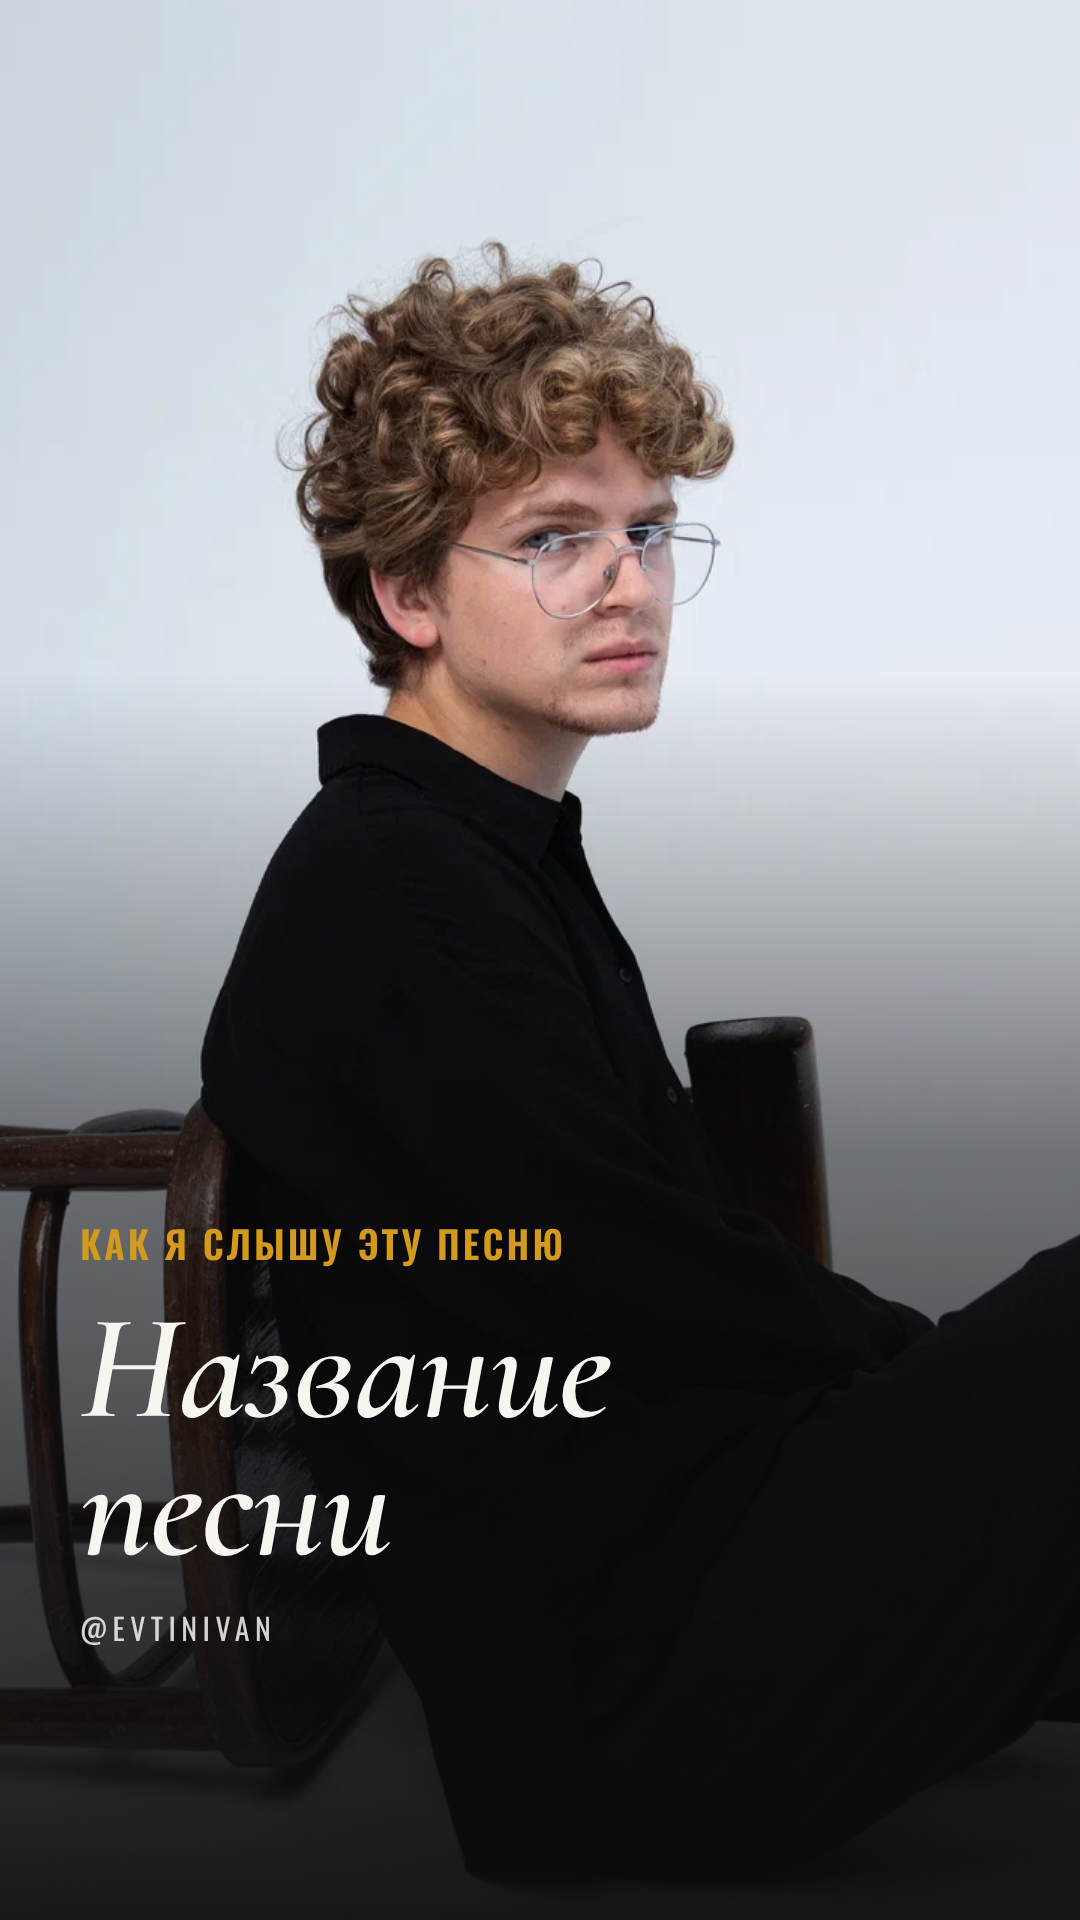
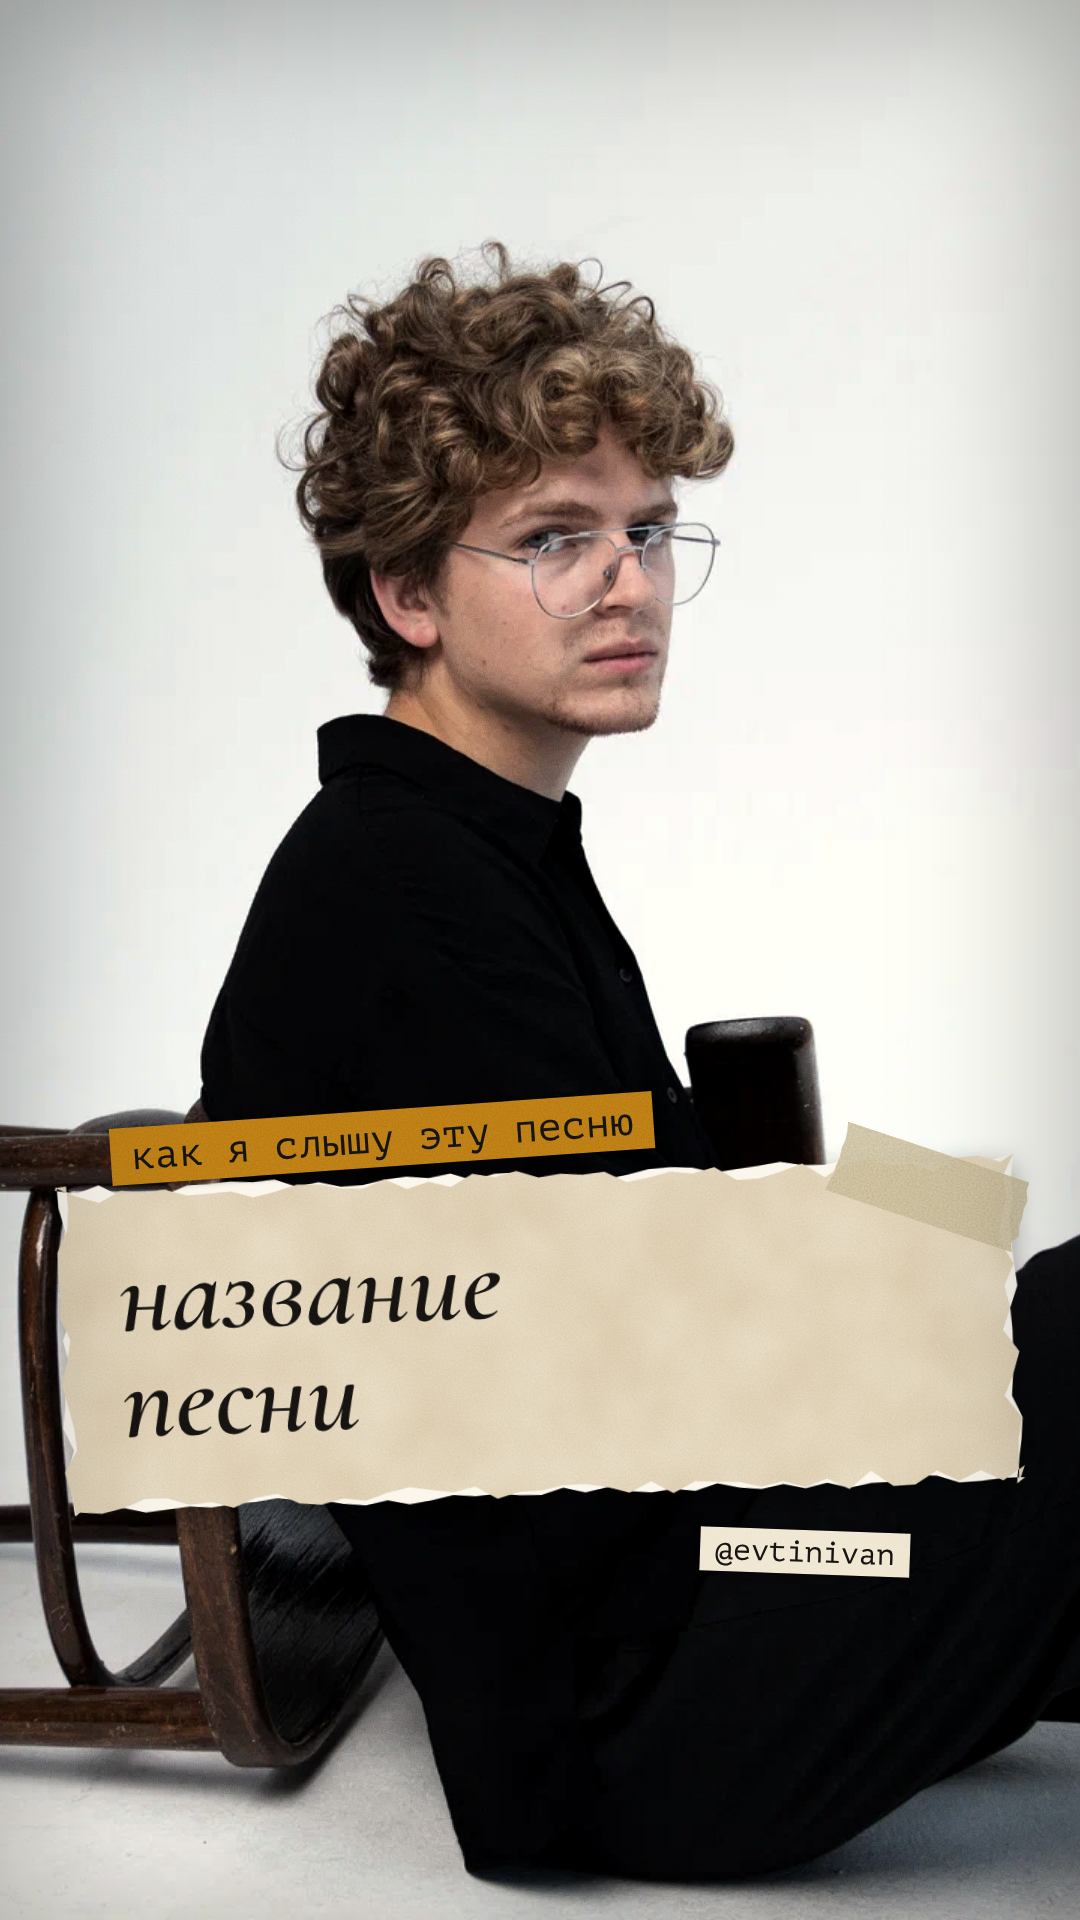
docs: redesign Instagram kit as a hand-made musician's notebook collage
Torn paper with fibre rims, sheet music, tape, piano-key ribbon,
typewriter strips, red-pen notes and film grain, taken from Ivan's
moodboard, instead of flat vector templates.

Claude-Session: https://claude.ai/code/session_01GVk6V9ZSjRXMyFWLcgcE7z

diff --git a/docs/instagram/README.md b/docs/instagram/README.md
@@ -7,7 +7,7 @@
 - [ ] 1. Шапка: оставить, поменять описание (см. ниже).
 - [ ] 2. Актуальные: пересобрать в 5 штук, поставить обложки из `highlights/`.
 - [ ] 3. Закрепы: выложить 3 новые публикации и закрепить их вместо трёх портретов.
-- [ ] 4. Обложки Reels: дальше только одна шрифтовая пара и шаблоны из `reels/`.
+- [ ] 4. Обложки Reels: дальше только стиль «блокнот музыканта» и шаблоны из `reels/`.
 - [ ] 5. Подписи: шаблоны с призывом и ключевыми словами (ниже).
 - [ ] 6. Контент-план на 2 недели (ниже), публикация в 19:00–21:00 МСК.
 
@@ -59,13 +59,22 @@ Instagram берёт центр картинки в кружок. Добавит
 - **02:** «Так звучит живое выступление: без фонограммы, голос и клавиши. Какую песню добавить в следующую подборку? @evtinivan — живая музыка на вашем событии.»
 - **03:** «Нужна живая музыка на событие? Напишите в директ дату, место и формат — обсудим программу. Санкт-Петербург. Сайт с примерами и формой заявки — ссылка в шапке.»
 
-## 4. Обложки Reels: правило узнаваемости
-- Одна пара шрифтов: **Oswald** (капсом — рубрика) + **Cormorant Garamond Italic** (крупно — заголовок). Обе есть в Canva и Google Fonts.
-- Текст белый `#f7f5f0`, акцент по рубрике:
-  красный `#d4251c` (выступления и «Строю своё имя»), горчичный `#d39a1e` («Как я слышу эту песню»), розовый `#ff5d98` («До сцены и после»).
-- На обложке всегда вы крупным планом (лицо, очки), текст в нижней трети.
+## 4. Обложки: стиль «блокнот музыканта»
+Идея взята из вашего мудборда: обложка выглядит как коллаж, склеенный руками, а не как шаблон.
+- Ноты, рваная бумага с белой кромкой, скотч, лента клавиш, плёночное зерно, слегка кривые полоски.
+- Шрифты (одна пара + почерк):
+  - **Cormorant Garamond Italic** — главный заголовок на бумажной полоске;
+  - **PT Mono** — «машинописные» полоски-подписи (как «dream on little dreamer» в мудборде);
+  - **Caveat** — только для коротких пометок красной ручкой («это я», «листай», номера).
+  Все три есть в Google Fonts; Cormorant и Caveat есть в Canva, PT Mono — загрузить.
+- Цвета: бумага `#efe4c8`, чернила `#1d1a17`, красная ручка `#c4161c`; фактуры из мудборда:
+  бордовый ковёр `#a8140f`, горчичная мешковина `#c9901c`, графит `#3a3a44`, розовый `#f2a7bf`.
+- Цвет полоски-рубрики на Reels: бордовый — «Выступления», горчичный — «Как я слышу эту песню»,
+  розовый — «До сцены и после», чёрный — «Строю своё имя».
+- На обложке Reels всегда вы крупным планом, заголовок — на рваной полоске в нижней трети.
   Главное держать в центре: сетка профиля обрезает Reels до 3:4.
-- Шаблоны в `reels/`: замените фото на кадр из ролика, а текст на свой хук (3–5 слов).
+- Шаблоны в `reels/` сделаны на студийных портретах. Для настоящих роликов замените фото на кадр из видео,
+  а заголовок на свой хук (3–5 слов). В Canva это: фото на весь кадр → фигура «рваная бумага» → текст Cormorant.
 
 ## 5. Подписи под Reels
 Схема: хук → 1–2 предложения → вопрос зрителю → призыв → 3–5 ключевых слов по теме.
